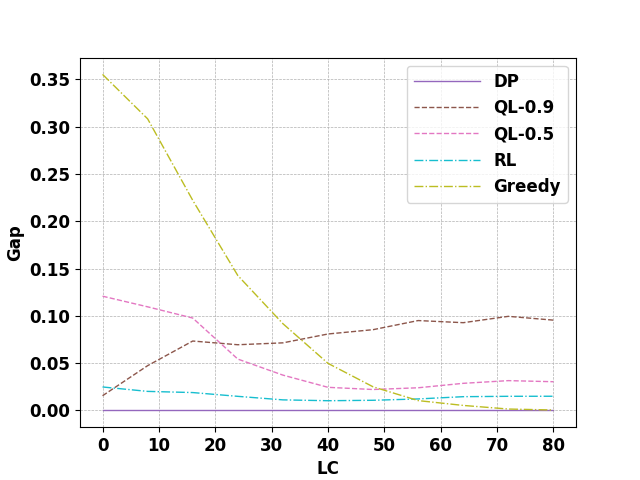
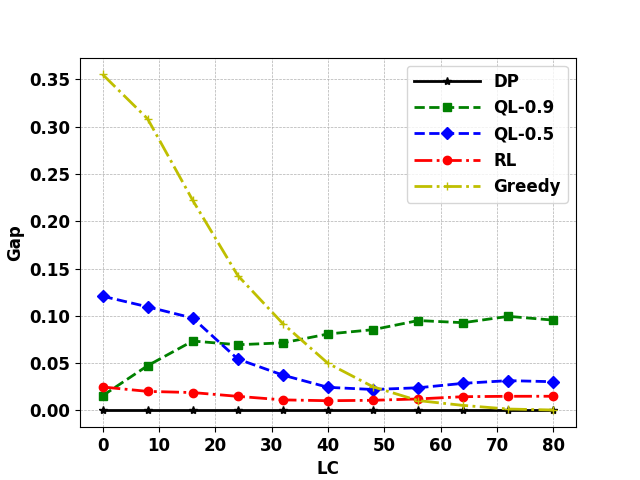
new plots

diff --git a/Single-Provider-Federation/quota-rejection/simulations/gap_plotter_gr_dp_2ql_rl.py b/Single-Provider-Federation/quota-rejection/simulations/gap_plotter_gr_dp_2ql_rl.py
@@ -79,18 +79,13 @@ plt.grid(linestyle="--", linewidth=0.5)
 plt.ylabel("Gap")
 plt.xlabel(x_label)
 
-#plt.plot(x, DP_05, label='DP-0.05', color='C1', linestyle='solid', linewidth=1)
-#plt.plot(x, DP_30, label='DP-0.30', color='C2', linestyle='solid', linewidth=1)
-#plt.plot(x, DP_60, label='DP-0.60', color='C3', linestyle='solid', linewidth=1)
-plt.plot(x, DP_95, label='DP', color='C4', linestyle='solid', linewidth=1)
+plt.plot(x, DP_95, label='DP', color='k', linestyle='solid', linewidth=2, marker = '*')
 
-plt.plot(x, QL_09, label='QL-0.9', color='C5', linestyle='dashed', linewidth=1)
-plt.plot(x, QL_05, label='QL-0.5', color='C6', linestyle='dashed', linewidth=1)
-plt.plot(x, RL, label='RL', color='C9', linestyle='-.', linewidth=1)
+plt.plot(x, QL_09, label='QL-0.9', color='g', linestyle='dashed', linewidth=2, marker = 's')
+plt.plot(x, QL_05, label='QL-0.5', color='b', linestyle='dashed', linewidth=2, marker = 'D')
+plt.plot(x, RL, label='RL', color='r', linestyle='-.', linewidth=2, marker = 'o')
 
-#plt.plot(x, greedy_000, label='Greedy-0.0', color='C6', linestyle='dashdot', linewidth=1)
-#plt.plot(x, greedy_050, label='Greedy-0.5', color='C7', linestyle='dashdot', linewidth=1)
-plt.plot(x, greedy_100, label='Greedy', color='C8', linestyle='dashdot', linewidth=1)
+plt.plot(x, greedy_100, label='Greedy', color='y', linestyle='dashdot', linewidth=2, marker = '+')
 
 plt.legend(loc='best', handlelength=4)
 

diff --git a/Single-Provider-Federation/quota-rejection/simulations/res_plotter_gr_dp_2ql_rl.py b/Single-Provider-Federation/quota-rejection/simulations/res_plotter_gr_dp_2ql_rl.py
@@ -57,17 +57,12 @@ plt.grid(linestyle="--", linewidth=0.5)
 plt.xlabel(x_label)
 plt.ylabel(y_label)
 
-#plt.plot(x, DP_05, label='DP-0.05', color='C1', linestyle='solid', linewidth=1)
-#plt.plot(x, DP_30, label='DP-0.30', color='C2', linestyle='solid', linewidth=1)
-#plt.plot(x, DP_60, label='DP-0.60', color='C3', linestyle='solid', linewidth=1)
 plt.plot(x, DP_95, label='DP', color='k', linestyle='solid', linewidth=2, marker = '*')
 
 plt.plot(x, QL_09, label='QL-0.9', color='g', linestyle='dashed', linewidth=2, marker = 's')
 plt.plot(x, QL_05, label='QL-0.5', color='b', linestyle='dashed', linewidth=2, marker = 'D')
 plt.plot(x, RL, label='RL', color='r', linestyle='-.', linewidth=2, marker = 'o')
 
-#plt.plot(x, greedy_000, label='Greedy-0.0', color='C6', linestyle='dashdot', linewidth=1)
-#plt.plot(x, greedy_050, label='Greedy-0.5', color='C7', linestyle='dashdot', linewidth=1)
 plt.plot(x, greedy_100, label='Greedy', color='y', linestyle='dashdot', linewidth=2, marker = '+')
 
 plt.legend(loc='best', handlelength=4)

diff --git a/Single-Provider-Federation/quota-rejection/simulations/gap_plotter_dp_ql_rl.py b/Single-Provider-Federation/quota-rejection/simulations/gap_plotter_dp_ql_rl.py
@@ -56,11 +56,11 @@ plt.xlabel(x_label)
 axes = plt.gca()
 axes.set_ylim([-0.01,0.25])
 
-plt.plot(x, DP_95, label='DP', color='C4', linestyle='solid', linewidth=1)
+plt.plot(x, DP_95, label='DP', color='k', linestyle='solid', linewidth=2, marker = '*')
 
-plt.plot(x, QL_09, label='QL-0.9', color='C5', linestyle='dashed', linewidth=1)
-plt.plot(x, QL_05, label='QL-0.5', color='C6', linestyle='dashed', linewidth=1)
-plt.plot(x, RL, label='RL', color='C9', linestyle='-.', linewidth=1)
+plt.plot(x, QL_09, label='QL-0.9', color='g', linestyle='dashed', linewidth=2, marker = 's')
+plt.plot(x, QL_05, label='QL-0.5', color='b', linestyle='dashed', linewidth=2, marker = 'D')
+plt.plot(x, RL, label='RL', color='r', linestyle='-.', linewidth=2, marker = 'o')
 
 plt.legend(loc='best', handlelength=4)
 

diff --git a/Single-Provider-Federation/quota-rejection/simulations/res_plotter_dp_ql_rl.py b/Single-Provider-Federation/quota-rejection/simulations/res_plotter_dp_ql_rl.py
@@ -48,12 +48,11 @@ plt.ylabel(y_label)
 axes = plt.gca()
 axes.set_ylim([45,75])
 
+plt.plot(x, DP_95, label='DP', color='k', linestyle='solid', linewidth=2, marker = '*')
 
-plt.plot(x, DP_95, label='DP', color='C4', linestyle='solid', linewidth=1)
-
-plt.plot(x, QL_09, label='QL-0.9', color='C5', linestyle='dashed', linewidth=1)
-plt.plot(x, QL_05, label='QL-0.5', color='C6', linestyle='dashed', linewidth=1)
-plt.plot(x, RL, label='RL', color='C9', linestyle='-.', linewidth=1)
+plt.plot(x, QL_09, label='QL-0.9', color='g', linestyle='dashed', linewidth=2, marker = 's')
+plt.plot(x, QL_05, label='QL-0.5', color='b', linestyle='dashed', linewidth=2, marker = 'D')
+plt.plot(x, RL, label='RL', color='r', linestyle='-.', linewidth=2, marker = 'o')
 
 plt.legend(loc='best', handlelength=4)
 
